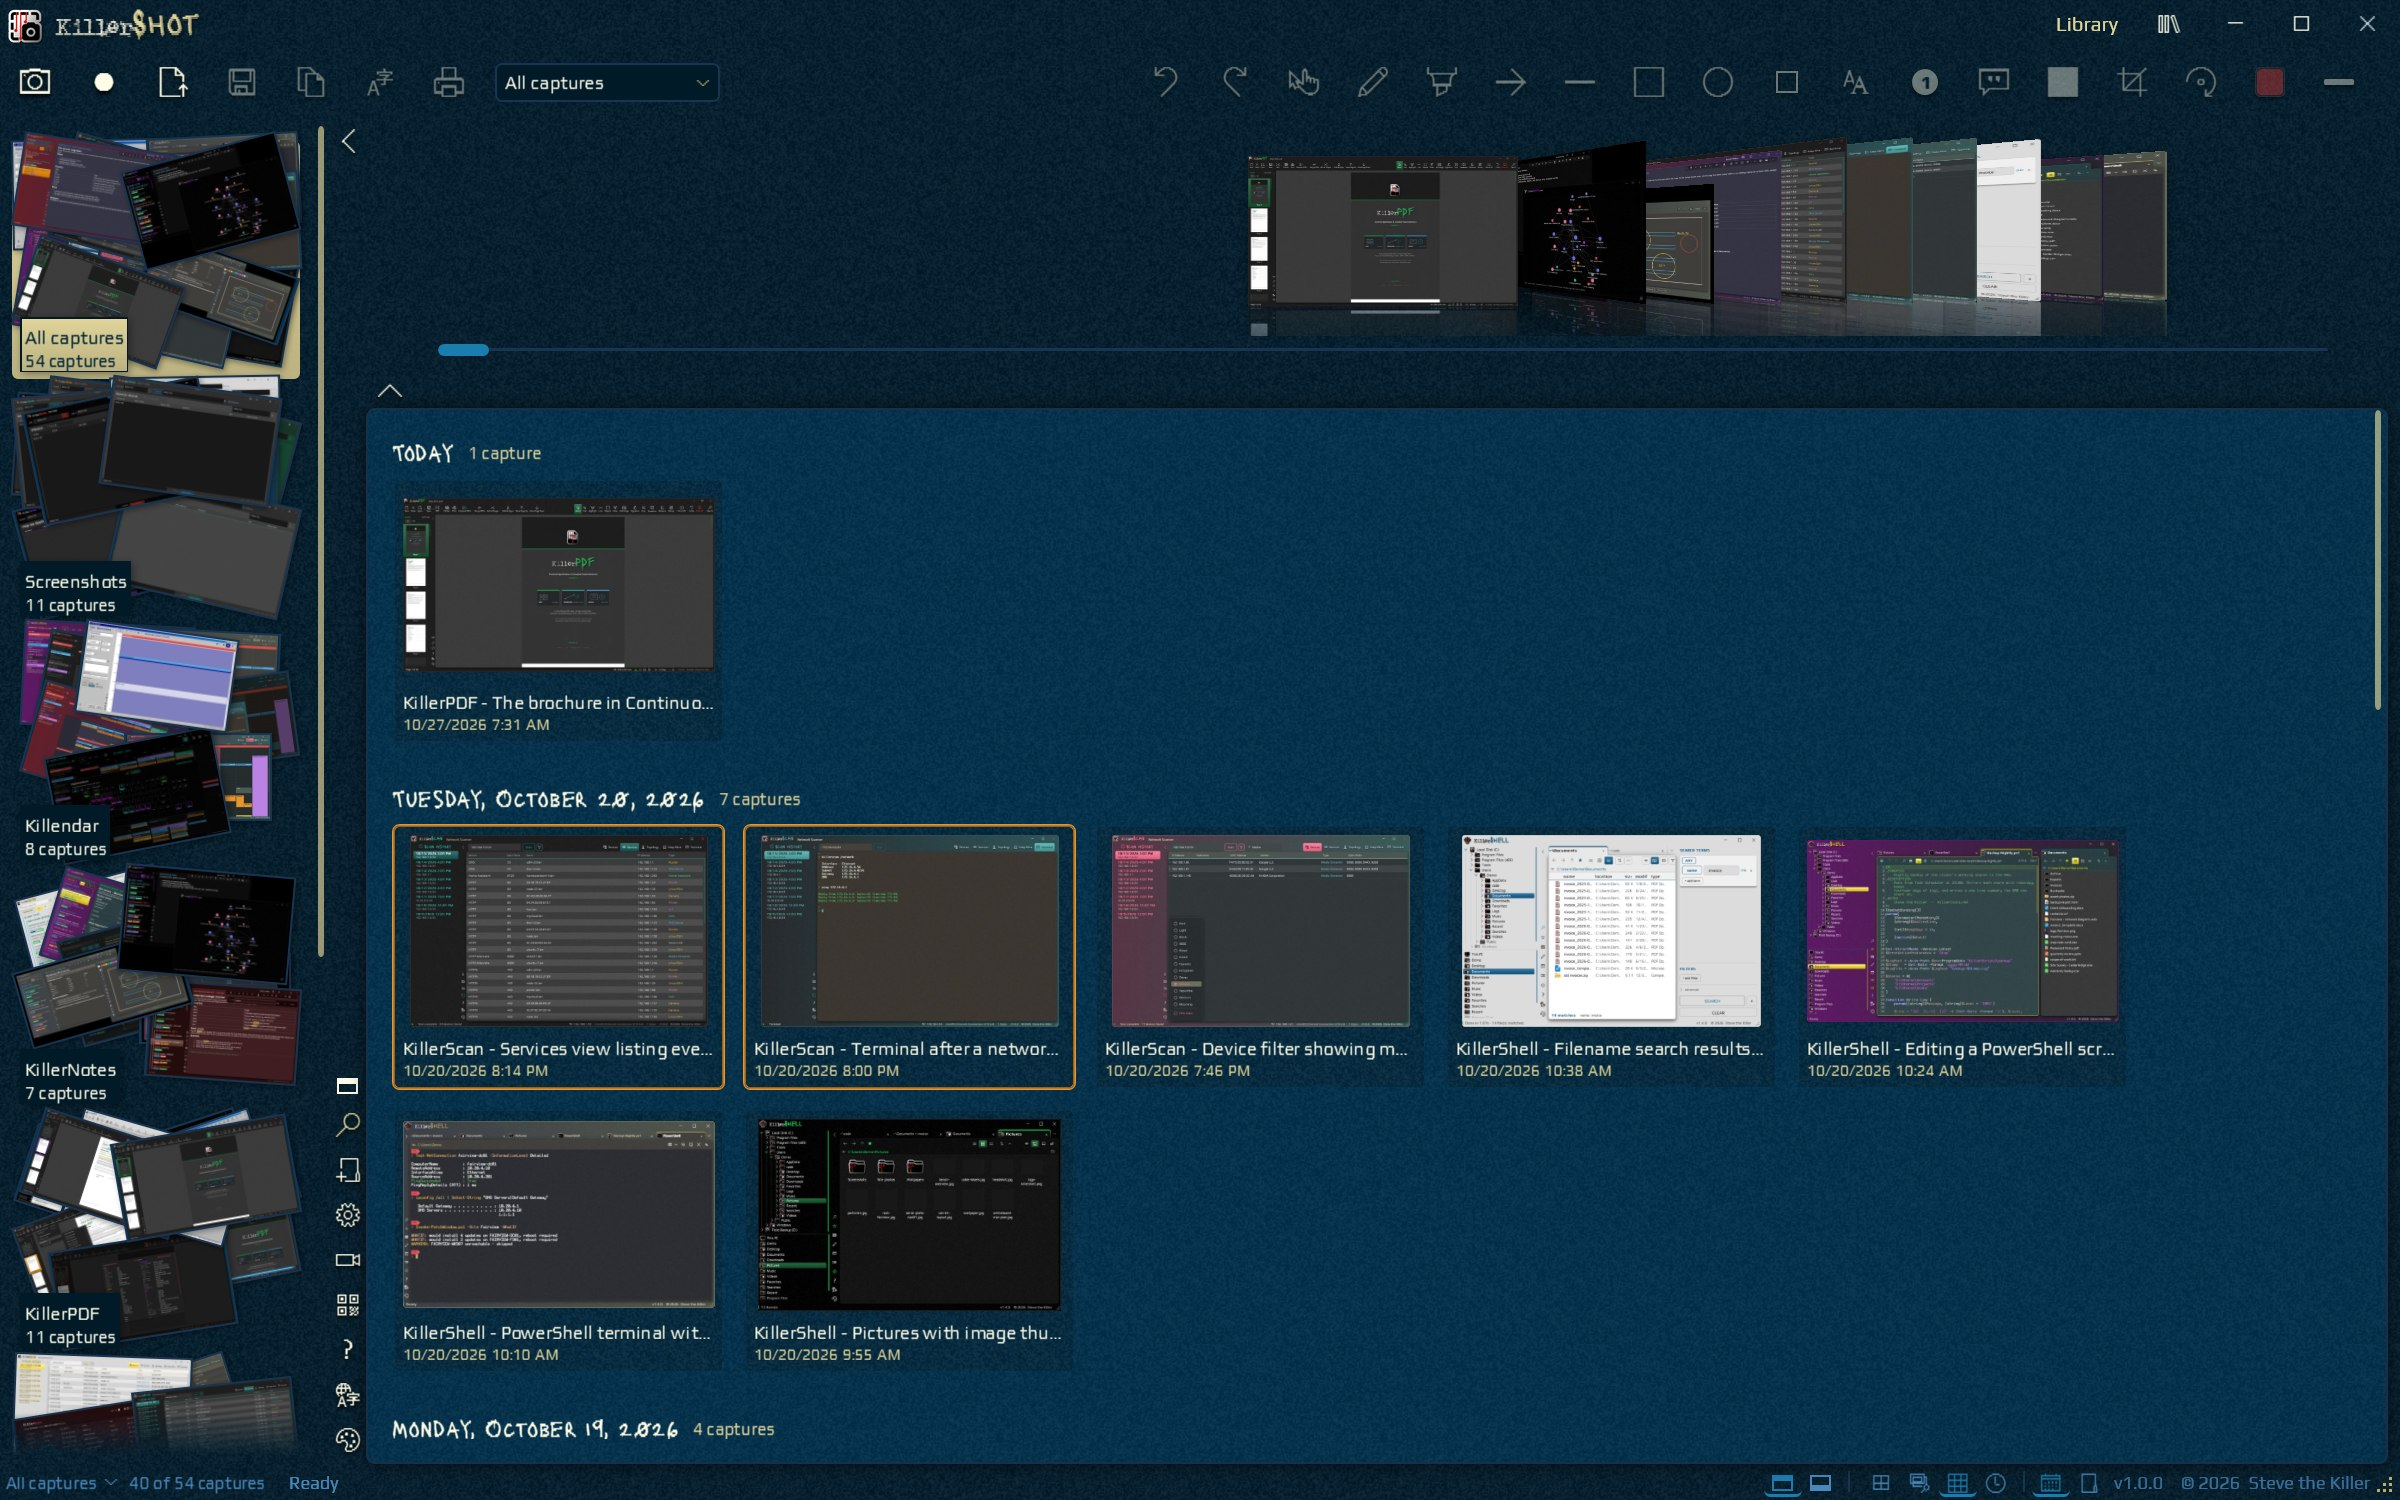
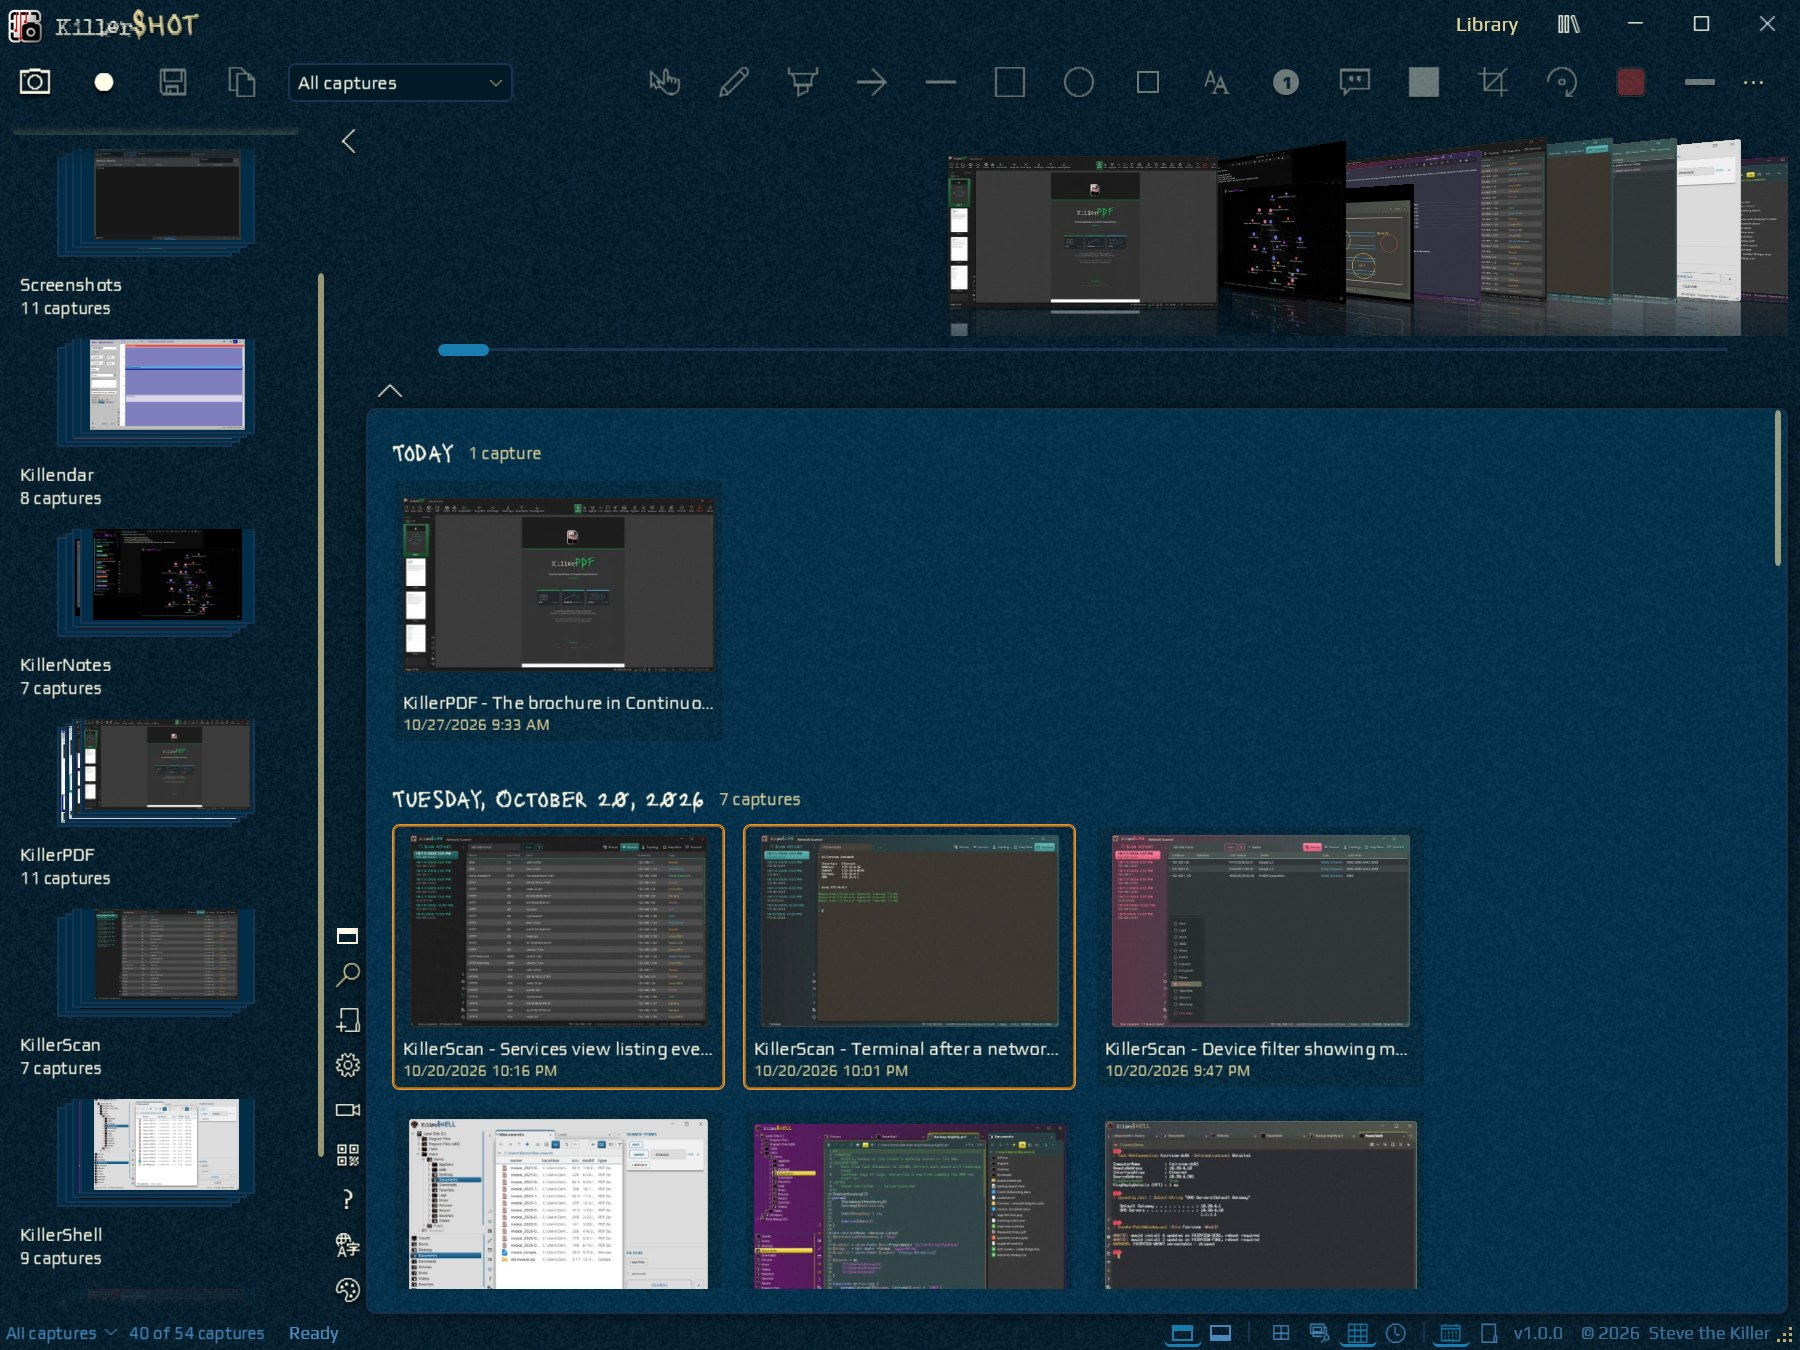
Center shelves on their middle picture and vary the landing screenshots

diff --git a/Shell/DemoMode.cs b/Shell/DemoMode.cs
@@ -158,47 +158,77 @@ internal static class SelfTestDemo
                     w.TestNavigationDock.DockTo(sidebar);
                     w.TestStripDock.DockTo(strip);
                 }
+                void Preview(string style)
+                {
+                    foreach (var choice in w.TestStrip!.PreviewMenu().Items.OfType<System.Windows.Controls.MenuItem>())
+                        if ((string)choice.Tag == style)
+                            choice.RaiseEvent(new System.Windows.RoutedEventArgs(System.Windows.Controls.MenuItem.ClickEvent));
+                }
                 var keepAlive = CaptureLibrary.Items().First(c => c.Window?.Contains("Keep Alive") == true);
                 var pdf = CaptureLibrary.Items().FirstOrDefault(c => c.Process == "KillerPDF") ?? keepAlive;
 
                 Look(Theme.Dark, Accent.Teal);
+                w.Width = 1600; w.Height = 1000;
                 Dock(KillerFamily.Layout.DockSide.Left, KillerFamily.Layout.DockSide.Top);
+                Preview("pile");
                 view.TestSet("shelves", "collection", "");
                 await Shot("landing-01-shelves-dark");
 
                 Look(Theme.Blood, Accent.Red);
+                w.Width = 1400; w.Height = 900;
+                Dock(KillerFamily.Layout.DockSide.Right, KillerFamily.Layout.DockSide.Top);
+                Preview("stack");
+                w.TestStrip!.TestScrollTo(0.35);
                 view.TestSet("flow", "date", "");
                 await Shot("landing-02-carousel-blood");
 
                 Look(Theme.Light, Accent.Blue);
+                w.Width = 1280; w.Height = 960;
+                Dock(KillerFamily.Layout.DockSide.Left, KillerFamily.Layout.DockSide.Top);
+                Preview("grid");
+                w.TestStrip!.TestScrollTo(0.7);
                 view.TestSet("grid", "date", "");
                 await Shot("landing-03-grid-light");
 
                 Look(Theme.Black, Accent.Purple);
+                w.Width = 1500; w.Height = 860;
+                Dock(KillerFamily.Layout.DockSide.Right, KillerFamily.Layout.DockSide.Top);
+                Preview("mini");
+                w.TestStrip!.TestScrollTo(1.0);
                 view.TestSet("timeline", "date", "");
                 await Shot("landing-04-timeline-black");
 
                 Look(Theme.Cyanotic, Accent.Blue);
+                w.Width = 1200; w.Height = 900;
+                Dock(KillerFamily.Layout.DockSide.Left, KillerFamily.Layout.DockSide.Top);
+                Preview("stack");
+                w.TestStrip!.TestScrollTo(0.5);
                 view.TestSet("grid", "date", "theme");
                 await Shot("landing-05-search-cyanotic");
 
                 Look(Theme.Dark, Accent.Orange);
+                w.Width = 1600; w.Height = 1000;
                 w.TestOpenLibraryCapture(keepAlive);
                 Dock(KillerFamily.Layout.DockSide.Left, KillerFamily.Layout.DockSide.Top);
                 await Shot("landing-06-editor-strip-top");
 
                 Look(Theme.Ectoplasm, Accent.Green);
+                w.Width = 1360; w.Height = 1000;
                 w.TestOpenLibraryCapture(pdf);
                 Dock(KillerFamily.Layout.DockSide.Right, KillerFamily.Layout.DockSide.Bottom);
                 await Shot("landing-07-editor-right-bottom");
 
                 Look(Theme.Delirium, Accent.Magenta);
+                w.Width = 1440; w.Height = 900;
                 Dock(KillerFamily.Layout.DockSide.Left, KillerFamily.Layout.DockSide.Top);
                 w.TestShowCaptureSettings();
                 await Shot("landing-08-capture-settings");
                 w.TestCloseOverlays();
 
                 Look(Theme.SE98, Accent.Teal);
+                w.Width = 1024; w.Height = 768;
+                Preview("grid");
+                w.TestStrip!.TestScrollTo(0.2);
                 w.TestToggleLibrary();
                 view.TestSet("shelves", "date", "");
                 await Shot("landing-09-shelves-98se");

diff --git a/Shell/CollectionStrip.cs b/Shell/CollectionStrip.cs
@@ -397,6 +397,27 @@ namespace KillerShot.Shell
             return menu;
         }
 
+        /// <summary>Demo hook: scrolls the collection list to a fraction of its length.</summary>
+        internal void TestScrollTo(double fraction)
+        {
+            _browser.UpdateLayout();
+            if (Find<ScrollViewer>(_browser) is { } scroller)
+            {
+                scroller.ScrollToVerticalOffset(scroller.ScrollableHeight * fraction);
+                scroller.ScrollToHorizontalOffset(scroller.ScrollableWidth * fraction);
+            }
+            static T? Find<T>(DependencyObject root) where T : DependencyObject
+            {
+                for (int i = 0; i < System.Windows.Media.VisualTreeHelper.GetChildrenCount(root); i++)
+                {
+                    var child = System.Windows.Media.VisualTreeHelper.GetChild(root, i);
+                    if (child is T hit) return hit;
+                    if (Find<T>(child) is { } deeper) return deeper;
+                }
+                return null;
+            }
+        }
+
         public string PreviewStyle => Settings.Get("CollectionPreview") is "stack" or "grid" or "mini"
             ? Settings.Get("CollectionPreview")! : "pile";
 

diff --git a/Shell/LibraryView.xaml.cs b/Shell/LibraryView.xaml.cs
@@ -516,6 +516,8 @@ namespace KillerShot.Shell
             };
             flow.Items = row.Items;
             if (_shelfFront.TryGetValue(row.Key, out long front)) flow.Select(front);
+            // Opening on the middle picture fills both sides of the band instead of leaving the left half empty.
+            else if (row.Items.Count > 2) flow.Select(row.Items[row.Items.Count / 2].Id);
             flow.SelectionChanged += () => { if (flow.SelectedItem is { } s) _shelfFront[row.Key] = s.Id; };
             flow.ItemActivated += item => OpenRequested?.Invoke(item);
             flow.ItemMenuRequested += ShowItemMenu;

diff --git a/CHANGELOG.md b/CHANGELOG.md
@@ -35,6 +35,7 @@ KillerShot combines screenshot and screen recording tools with an encrypted capt
 
 ### Albums and collections
 
+- Each shelf in the shelves view opens on its middle picture, so the carousel fills both sides instead of leaving the left half empty.
 - The photo strip's carousel keeps every picture's top in view when a wide, short capture is in front.
 
 - Captures are stored in an encrypted SQLCipher album with AES-256 encryption, opened through the Windows account or an optional password. Create, open, rename and switch albums from the title bar; each keeps its own retention and QR settings. External albums open as managed copies.
